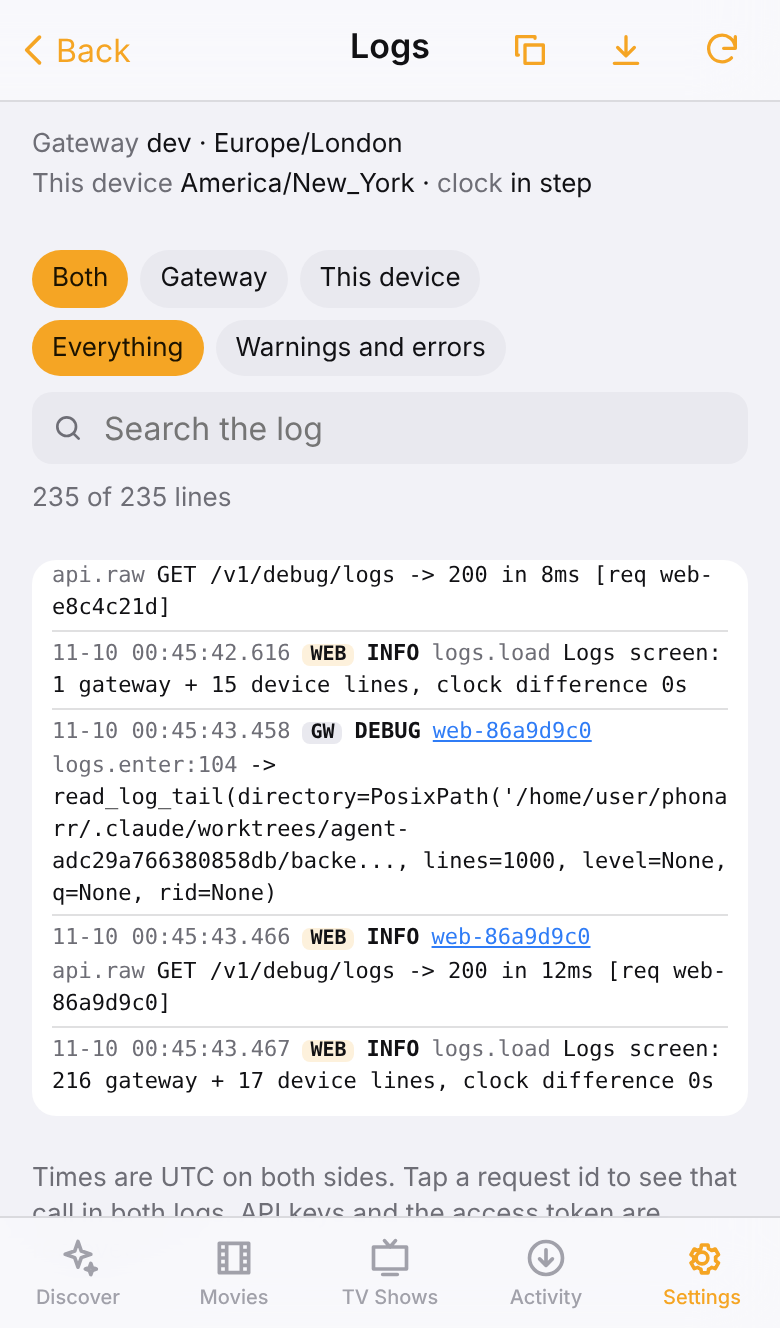
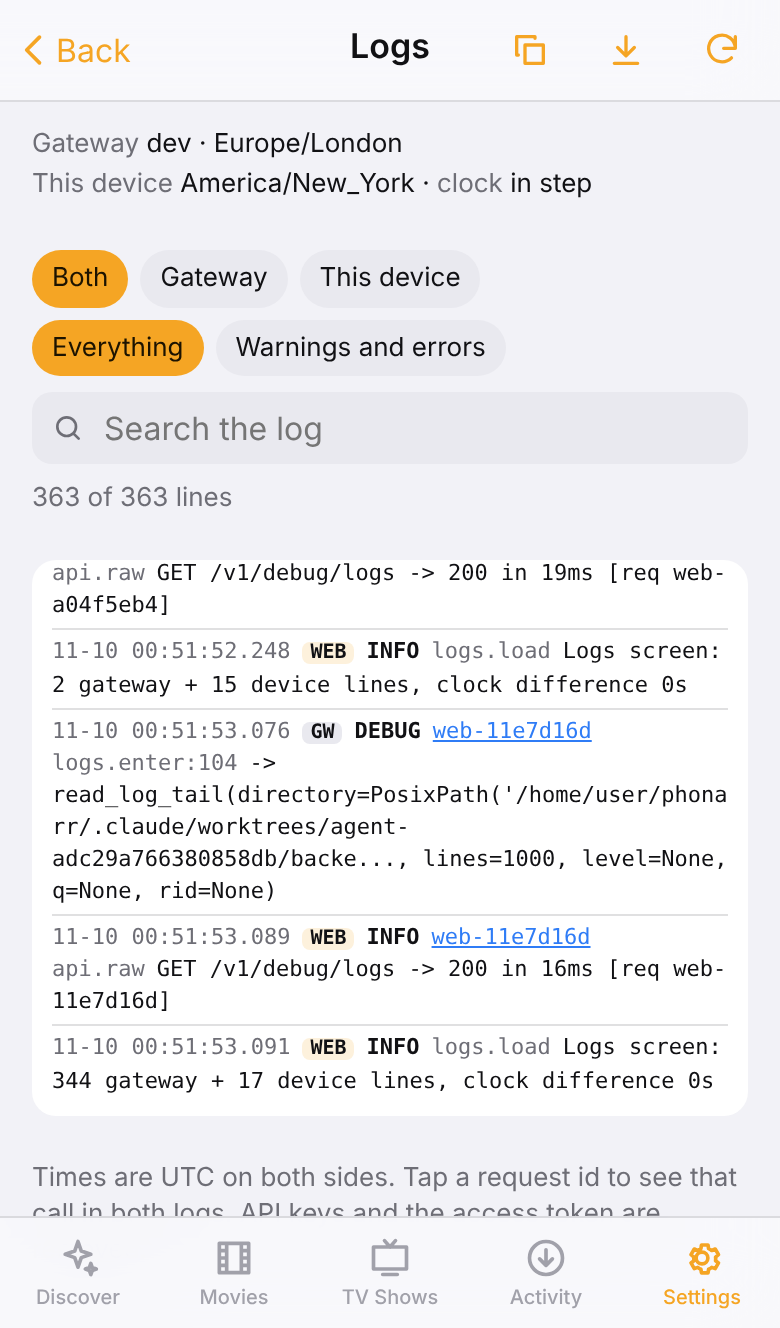
Docs: KB-11 result and the Logs screen marked done in the known bugs PRD
Claude-Session: https://claude.ai/code/session_013jd1G1GxGFsZEKuV7L43VF

diff --git a/docs/KNOWN_BUGS_PRD.md b/docs/KNOWN_BUGS_PRD.md
@@ -45,7 +45,7 @@ Ideas only: no code or assets were copied from any of them.
 | ID | Seen in | Risk in Phonarr | Test | First run | Fix |
 |---|---|---|---|---|---|
 | KB-10 | General (VM resume, NTP corrections) | TTLs, the Retry cooldown and the poll interval use `time.time()`. If the clock moves back, caches look fresh for hours and Retry is refused. | `test_known_bugs.py::test_clock_going_backwards_does_not_freeze_retry_or_caches` | FAIL → fixed | `time.monotonic()` for every duration; `time.time()` only for timestamps people see |
-| KB-11 | Gotify/ntfy timestamp fixes; correlating logs | Gateway log lines use local time with no offset (`2026-11-10 08:00:00,123`); the web and iPhone logs use UTC (`…Z`). In a debug report the two sides look hours apart. | `test_gateway.py::test_log_lines_are_utc_iso` | | Gateway lines in UTC ISO 8601 with milliseconds and `Z`, like the frontends |
+| KB-11 | Gotify/ntfy timestamp fixes; correlating logs | Gateway log lines use local time with no offset (`2026-11-10 08:00:00,123`); the web and iPhone logs use UTC (`…Z`). In a debug report the two sides look hours apart. | `test_gateway.py::test_log_lines_are_utc_iso` | FAIL → fixed | Gateway lines in UTC ISO 8601 with milliseconds and `Z`, like the frontends: `RedactingFormatter.converter = time.gmtime`, `logging.format` / `logging.timestamp_format` in settings.json; files roll at UTC midnight. The iPhone log (local time with an offset) now writes UTC `Z` too 🟢 |
 | KB-12 | Seerr #3273 "anchor day diff to UTC midnight", Ruddarr "wrong date in the calendar" | Calendar: Radarr's `inCinemas`, `digitalRelease`, `physicalRelease` are days sent as midnight UTC. Converting them to local time puts them on the previous day west of UTC. | `test_calendar_movie_dates_are_days_not_instants` (gateway), `web/tests/calendar.test.mjs` | New | Movie dates are taken as the date part, never converted |
 | KB-13 | Ruddarr calendar (`airDateUtc`) | Calendar: an episode at 21:00 in New York is 02:00 UTC the next day. Asking Sonarr for whole UTC days drops it at the edges, and bucketing by UTC puts it on the wrong day. | `test_calendar_episode_times_follow_viewer_timezone`, `test_calendar_range_edges_keep_late_episodes` | New | Ask Sonarr for the range padded by a day; bucket `airDateUtc` in the viewer's IANA timezone |
 | KB-14 | Common Python-in-Docker failure (`ZoneInfoNotFoundError` on slim images) | The calendar needs IANA timezones; slim images may have no tz database. A bad `tz` from a browser must not 500. | `test_calendar_unknown_timezone_falls_back_to_utc` | New | `tzdata` in requirements.txt; an unknown zone falls back to UTC and says so in the response |
@@ -77,6 +77,8 @@ Every Ruddarr calendar fix becomes a requirement here, tested before the Calenda
 
 ## Debug features (from Ruddarr's bug report sheet, network diagnostics and decode-failure capture)
 
+**Done.** Settings → Troubleshooting → **Logs** in both frontends (`web/js/views/logs.js` + `web/js/logview.js`, `ios/Phonarr/Views/LogsView.swift` 🟢), backed by `GET /v1/debug/logs` (`logs.read_log_tail`: reads from the end of the file in chunks, tracebacks stay with their line, the pre-KB-11 format is still parsed, redacted again). Screenshot: `docs/screenshots/iphone-logs.png`. Tests: `test_debug_logs_*` (gateway) and `web/tests/logview.test.mjs`.
+
 Settings → Debug gets a **Logs** screen, the same in both frontends:
 
 - The last 1,000 lines (configurable) of the gateway log and of this device's own log, merged by time into one list. Both sides write UTC (KB-11), so they line up.
@@ -99,6 +101,7 @@ Filled in as each test is written and run (first run before any fix).
 - **KB-06 FAIL → fixed.** A lookup answering `{"message": "Database is locked"}` gave a 500 (`KeyError: slice(None, 40, None)` in `search`); `null` was cached as an empty result. Fixed: `_lookup_list` treats any non-list as an `unavailable` error (shown under the search heading, never cached), and `lookup_raw` never caches an error object.
 - **KB-07 FAIL → fixed.** One `[]` library answer turned the requested film into `failed` / "No longer in Radarr. Retry will add it again." (expected `searching`). Fixed: a per-title count of successful refreshes in a row without it; only `gateway.missing_confirmations` (2) in a row show "No longer in …", until then the previous status stays and the library cache is dropped so the next cycle reads it fresh.
 - **KB-10 FAIL → fixed.** With the wall clock an hour back and 31 s really passed, Retry was refused ("the cooldown is measured on the wall clock", 1 search instead of 2). Fixed: `time.monotonic()` for every TTL, cooldown, poll timing and health duration in `service.py` and `main.py` (and the compat duration); `time.time()` stays for shown/stored timestamps, and stored ones (metadata cache, compat spec, last compat run) treat a time "in the future" as expired.
+- **KB-11 FAIL → fixed.** With `TZ=America/New_York` the gateway wrote `2026-11-09 19:35:48,387 INFO [-] gateway.test_log_lines_are_utc_iso:914: what time is it` (local time, comma before the milliseconds, no zone), so the test's `^\d{4}-\d{2}-\d{2}T\d{2}:\d{2}:\d{2}\.\d{3}Z ` match failed. Fixed: the formatter uses `time.gmtime` and `%(asctime)s.%(msecs)03dZ` with `logging.timestamp_format` `%Y-%m-%dT%H:%M:%S`, so lines read `2026-11-10T00:35:48.387Z INFO …`, and the daily roll is at UTC midnight (`logging.roll_utc`) so file dates match line dates. The iPhone's `AppLog` wrote local time with an offset (`…-05:00`) and `writeNow`/`log_rolled` had no milliseconds; all three now use one UTC formatter 🟢. Files written before the change are still read by `GET /v1/debug/logs` through `logging.view.legacy_formats`.
 - **KB-20 FAIL → fixed.** `null` lists/objects and unknown queue states were fine, but `statistics: {"episodeFileCount": null, "episodeCount": null}` crashed the status refresh (`TypeError: '>' not supported between instances of 'NoneType' and 'int'`). Fixed: counts read as `or 0`.
 - **KB-21 PASS.** Specials are never monitored for "first" or "latest" (also when listed last), and `season_count` leaves them out.
 - **KB-22 FAIL → fixed.** For an HTML login page answering `/api/v3/queue/details` with 200, the only WARNING was "Radarr is DOWN: … answered, but not with the Radarr API (got non-JSON)", without the call, status or body. Fixed: `log.arr_non_json` names service, method, path, status, content type and the start of the body, redacted before it's logged.
